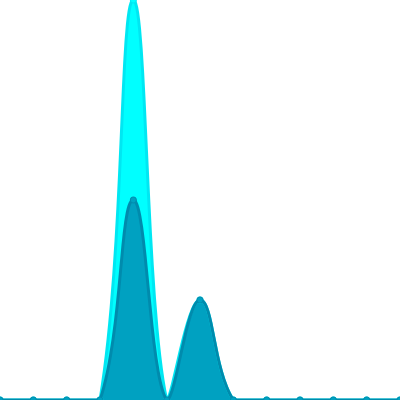
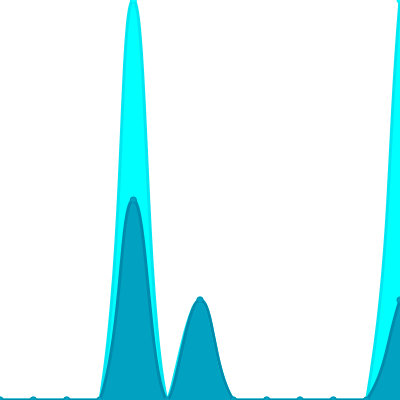
Update views

Changed region(s): [[0.9, 0.0, 1.0, 1.0]]

diff --git a/readme/827259573/year.md b/readme/827259573/year.md
@@ -23,10 +23,10 @@
 			<code>2025/3/1</code>
 		</td>
 		<td>
-			<code>0</code>
+			<code>1</code>
 		</td>
 		<td>
-			<code>0</code>
+			<code>4</code>
 		</td>
 	</tr>
 	<tr>
@@ -164,7 +164,7 @@
 </table>
 
 </details>
-<small><i>Last updated on 2025/3/18 12:31 PM UTC</i></small>
+<small><i>Last updated on 2025/3/18 6:21 PM UTC</i></small>
 
 ## ✂Copy and 📋 Paste
 ### SVG Badge

diff --git a/README.md b/README.md
@@ -357,7 +357,7 @@ The project created and maintained by [gayanvoice](https://github.com/gayanvoice
 	</tr>
 </table>
 
-<small><i>Last updated on 2025/3/18 12:33 PM UTC</i></small>
+<small><i>Last updated on 2025/3/18 6:24 PM UTC</i></small>
 
 ## ✂Copy and 📋 Paste
 ### Total Views Badge

diff --git a/readme/698104324/year.md b/readme/698104324/year.md
@@ -164,7 +164,7 @@
 </table>
 
 </details>
-<small><i>Last updated on 2025/3/18 12:32 PM UTC</i></small>
+<small><i>Last updated on 2025/3/18 6:23 PM UTC</i></small>
 
 ## ✂Copy and 📋 Paste
 ### SVG Badge

diff --git a/readme/698130765/year.md b/readme/698130765/year.md
@@ -164,7 +164,7 @@
 </table>
 
 </details>
-<small><i>Last updated on 2025/3/18 12:31 PM UTC</i></small>
+<small><i>Last updated on 2025/3/18 6:21 PM UTC</i></small>
 
 ## ✂Copy and 📋 Paste
 ### SVG Badge

diff --git a/readme/698182249/year.md b/readme/698182249/year.md
@@ -164,7 +164,7 @@
 </table>
 
 </details>
-<small><i>Last updated on 2025/3/18 12:32 PM UTC</i></small>
+<small><i>Last updated on 2025/3/18 6:23 PM UTC</i></small>
 
 ## ✂Copy and 📋 Paste
 ### SVG Badge

diff --git a/readme/741956451/year.md b/readme/741956451/year.md
@@ -164,7 +164,7 @@
 </table>
 
 </details>
-<small><i>Last updated on 2025/3/18 12:32 PM UTC</i></small>
+<small><i>Last updated on 2025/3/18 6:23 PM UTC</i></small>
 
 ## ✂Copy and 📋 Paste
 ### SVG Badge

diff --git a/readme/750768610/year.md b/readme/750768610/year.md
@@ -164,7 +164,7 @@
 </table>
 
 </details>
-<small><i>Last updated on 2025/3/18 12:33 PM UTC</i></small>
+<small><i>Last updated on 2025/3/18 6:24 PM UTC</i></small>
 
 ## ✂Copy and 📋 Paste
 ### SVG Badge

diff --git a/readme/783743308/year.md b/readme/783743308/year.md
@@ -164,7 +164,7 @@
 </table>
 
 </details>
-<small><i>Last updated on 2025/3/18 12:33 PM UTC</i></small>
+<small><i>Last updated on 2025/3/18 6:24 PM UTC</i></small>
 
 ## ✂Copy and 📋 Paste
 ### SVG Badge

diff --git a/readme/787331288/year.md b/readme/787331288/year.md
@@ -164,7 +164,7 @@
 </table>
 
 </details>
-<small><i>Last updated on 2025/3/18 12:33 PM UTC</i></small>
+<small><i>Last updated on 2025/3/18 6:24 PM UTC</i></small>
 
 ## ✂Copy and 📋 Paste
 ### SVG Badge

diff --git a/readme/787355501/year.md b/readme/787355501/year.md
@@ -164,7 +164,7 @@
 </table>
 
 </details>
-<small><i>Last updated on 2025/3/18 12:33 PM UTC</i></small>
+<small><i>Last updated on 2025/3/18 6:23 PM UTC</i></small>
 
 ## ✂Copy and 📋 Paste
 ### SVG Badge

diff --git a/readme/796346104/year.md b/readme/796346104/year.md
@@ -164,7 +164,7 @@
 </table>
 
 </details>
-<small><i>Last updated on 2025/3/18 12:32 PM UTC</i></small>
+<small><i>Last updated on 2025/3/18 6:23 PM UTC</i></small>
 
 ## ✂Copy and 📋 Paste
 ### SVG Badge

diff --git a/readme/814687995/year.md b/readme/814687995/year.md
@@ -164,7 +164,7 @@
 </table>
 
 </details>
-<small><i>Last updated on 2025/3/18 12:32 PM UTC</i></small>
+<small><i>Last updated on 2025/3/18 6:23 PM UTC</i></small>
 
 ## ✂Copy and 📋 Paste
 ### SVG Badge
